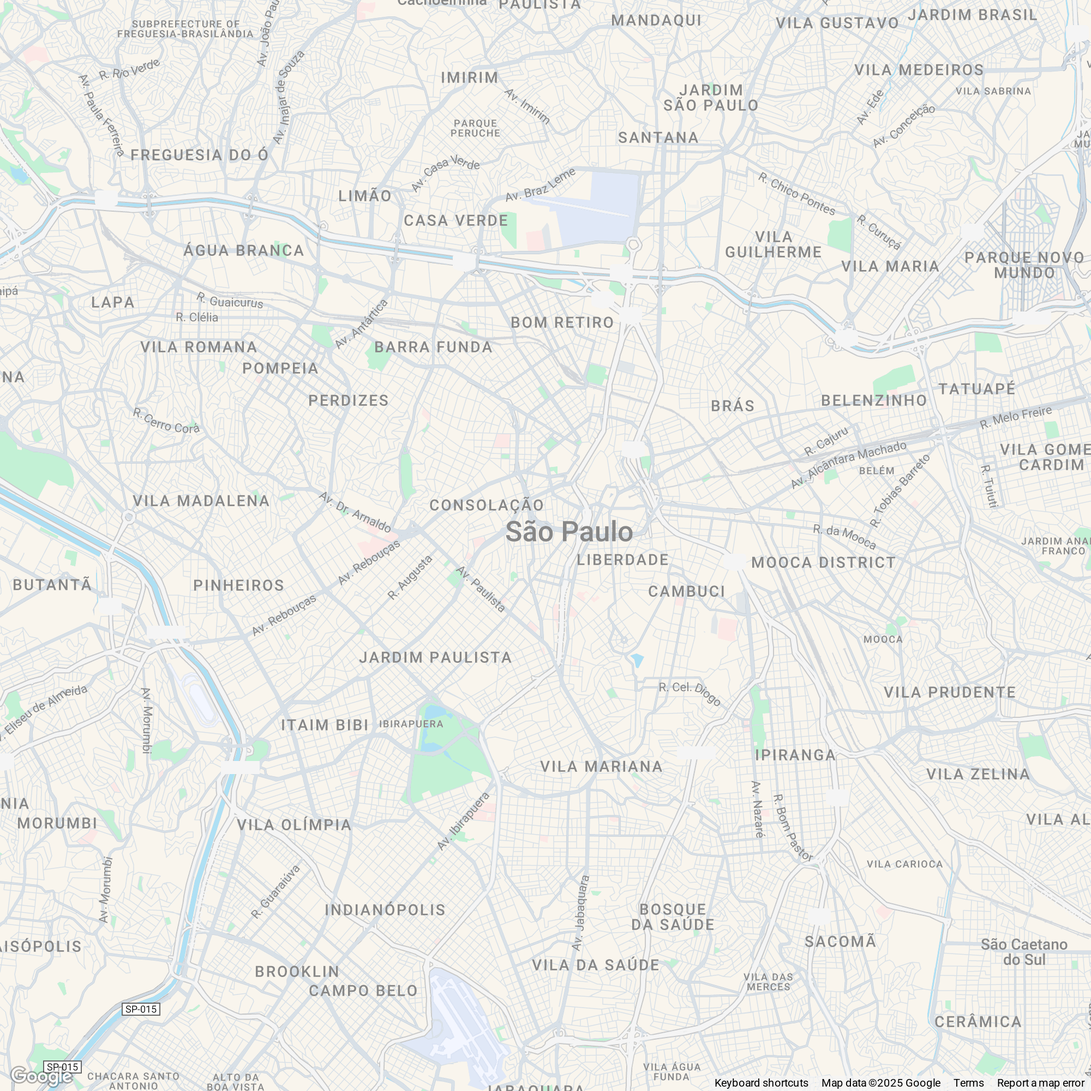
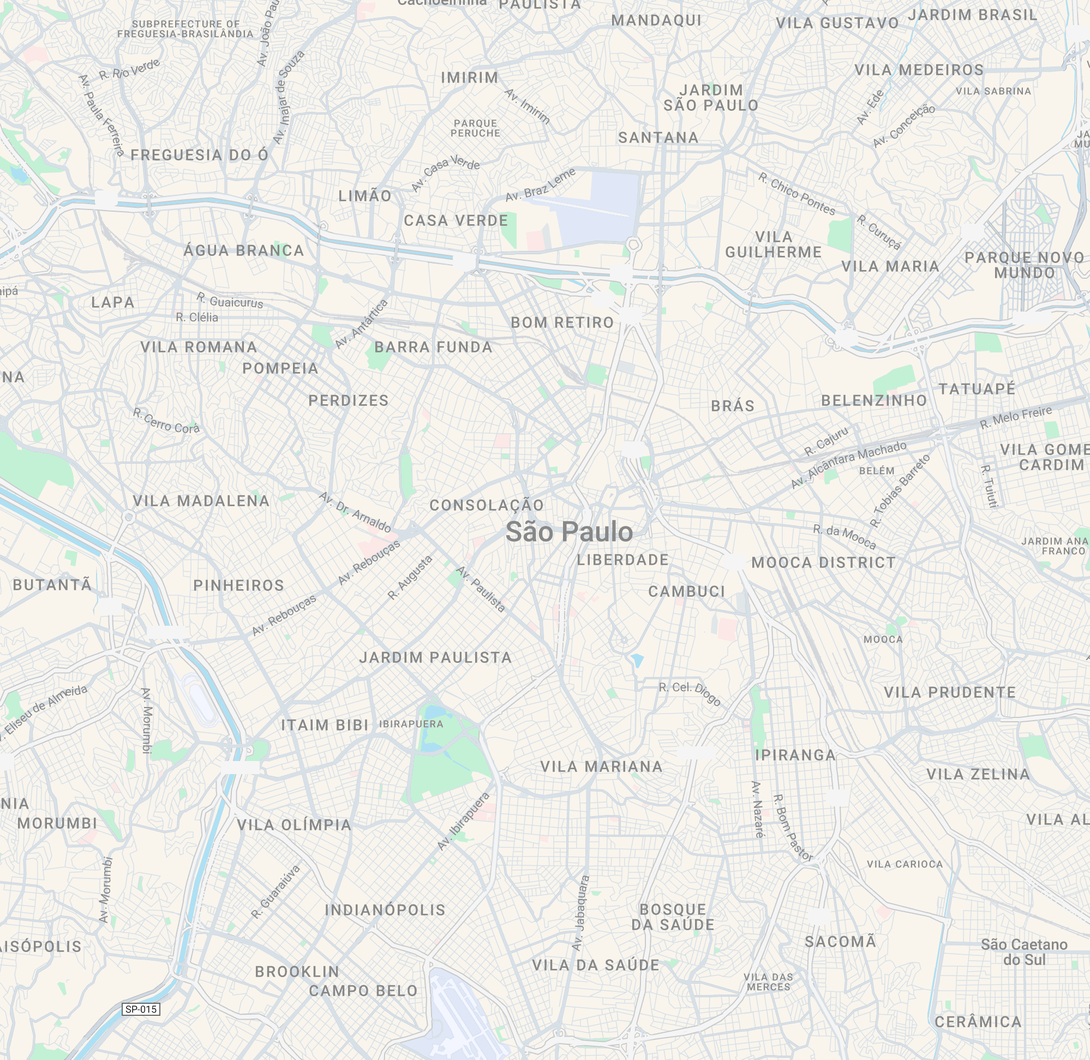
feat: update and zoom map with high-res São Paulo image
Add 150% zoom and no-repeat settings for detailed view.

#VERCEL_SKIP

diff --git a/app/page.tsx b/app/page.tsx
@@ -3275,8 +3275,9 @@ const SissonePrototype = () => {
                 onMouseUp={handleMapMouseUp}
                 onMouseLeave={handleMapMouseUp}
                 style={{
-                  backgroundImage: `url('/sao-paulo-map.png')`,
-                  backgroundSize: "cover",
+                  backgroundImage: `url('/sao-paulo-map.jpg')`,
+                  backgroundSize: "150%",
+                  backgroundRepeat: "no-repeat",
                   backgroundPosition: `${mapPosition.x}px ${mapPosition.y}px`,
                 }}
               >
@@ -3531,8 +3532,9 @@ const SissonePrototype = () => {
                 onMouseUp={handleMapMouseUp}
                 onMouseLeave={handleMapMouseUp}
                 style={{
-                  backgroundImage: `url('/sao-paulo-map.png')`,
-                  backgroundSize: "cover",
+                  backgroundImage: `url('/sao-paulo-map.jpg')`,
+                  backgroundSize: "150%",
+                  backgroundRepeat: "no-repeat",
                   backgroundPosition: `${mapPosition.x}px ${mapPosition.y}px`,
                 }}
               >
